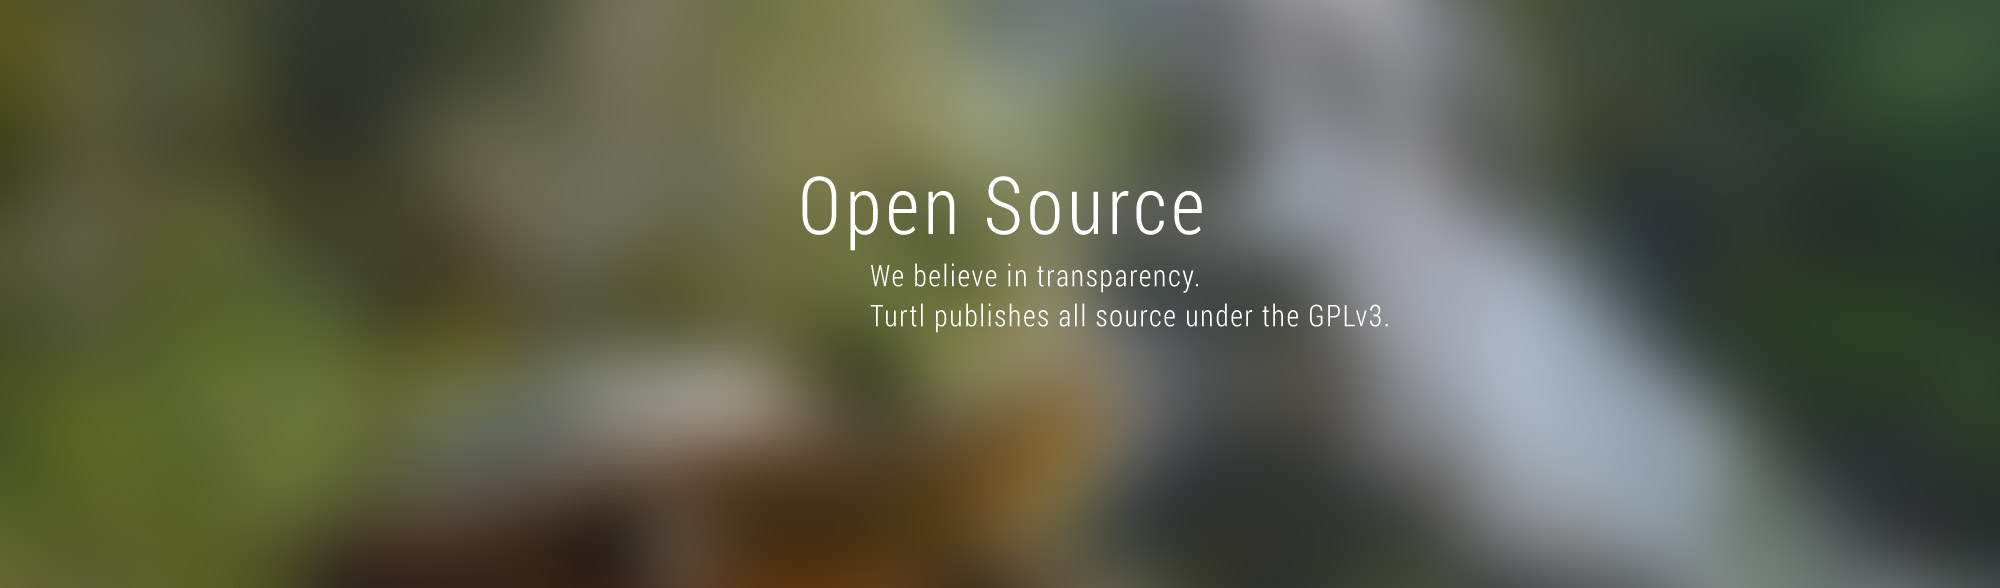
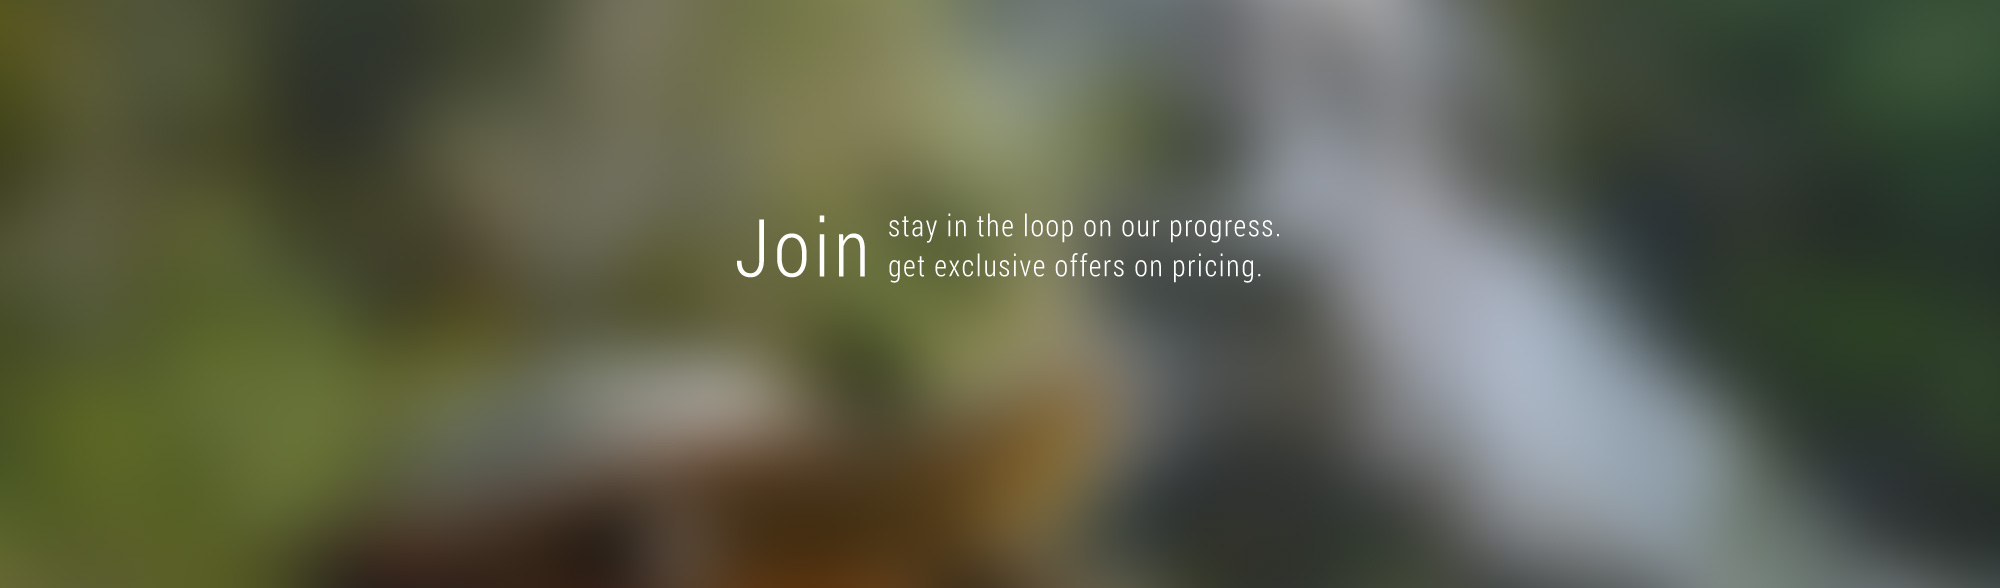
changing open source slide to mailing list slide w/ signup. working well

Changed region(s): [[0.372, 0.3061, 0.651, 0.4898], [0.434, 0.5204, 0.682, 0.551]]

diff --git a/webroot/js/turtl.js b/webroot/js/turtl.js
@@ -71,6 +71,23 @@ var turtl	=	{
 			el_prev: slide_main.getElement('.slide-lol.back'),
 			el_next: slide_main.getElement('.slide-lol.forward')
 		});
+
+		var slide_email_inp	=	$(document.body).getElement('.slideshow li.join input.email');
+		var was_running		=	false;
+		slide_email_inp.addEvent('focus', function() {
+			if(slideshow)
+			{
+				was_running	=	slideshow.state.started;
+				slideshow.stop();
+			}
+		});
+		slide_email_inp.addEvent('blur', function() {
+			if(slideshow && was_running) slideshow.start();
+		});
+		$(document.body).addEvent('click:relay(.slideshow li.slide.join a[href=#join])', function(e) {
+			if(e) e.stop();
+			if(slide_email_inp) slide_email_inp.focus();
+		});
 	},
 
 	setup_modal: function()

diff --git a/webroot/css/site.css b/webroot/css/site.css
@@ -62,6 +62,9 @@ icon {display: inline-block; margin: 0 0 0 0; padding: 0; font-family: Entypo; f
 .slideshow #slide-2 ul.screenshots li.add {background-position: -480px 0;}
 .slideshow #slide-2 ul.screenshots li.kofi {background-position: -480px 0;}
 .slideshow #slide-2 ul.screenshots li.bookmarks {background-position: -720px 0;}
+.slideshow #slide-3 .mailing-list {position: absolute; z-index: 3; bottom: 105px; width: 100%; text-align: center;}
+.slideshow #slide-3 .mailing-list input {padding: 6px 8px;}
+.slideshow #slide-3 .mailing-list .note {font-size: .85em; color: #fff;}
 
 /* --------------------------------------------------------------------------
  * homepage

diff --git a/views/modules/slideshow.md b/views/modules/slideshow.md
@@ -5,11 +5,11 @@ markdown: off
 <div class="slideshow">
     <div class="container">
         <ul>
-            <li style="background-image: url('/images/home/slides/1.jpg');" id="slide-1" class="slide">
+            <li style="background-image: url('/images/home/slides/1.jpg');" id="slide-1" class="slide main">
                 <a href="/download" class="full"></a>
                 <a href="/download" class="button default">Get Started</a>
             </li>
-            <li style="background-image: url('/images/home/slides/2.jpg');" id="slide-2" class="slide">
+            <li style="background-image: url('/images/home/slides/2.jpg');" id="slide-2" class="slide screens">
                 <ul class="screenshots">
                     <li class="playlist">
                         <a rel="modal 800" target="_blank" title="Playlist board" href="/images/home/screens/playlist.jpg"><span>Playlists</span></a>
@@ -25,9 +25,9 @@ markdown: off
                     </li>
                 </ul>
             </li>
-            <li style="background-image: url('/images/home/slides/3.jpg');" id="slide-3" class="slide">
-                <a href="/docs" class="full"></a>
-                <a href="/docs" class="button default">View docs</a>
+            <li style="background-image: url('/images/home/slides/3.jpg');" id="slide-3" class="slide join">
+                <a href="#join" class="full"></a>
+                {{module:mailing}}
             </li>
         </ul>
         <a href="#" class="slide-lol forward">&nbsp;</a>

diff --git a/views/modules/mailing.md b/views/modules/mailing.md
@@ -9,10 +9,10 @@ markdown: off
         <!-- prevents bot signups -->
         <div style="position: absolute; left: -5000px;"><input type="text" name="b_08e2e6f827378ac9d33dc70e8_6ec9573d84" value=""></div>
 
-        <input type="submit" value="Join mailing list">
+        <input type="submit" value="Join the list">
         <br>
         <span class="note">
-            Stay up to date on Turtl news. You can unsubscribe at any time. No spam.
+            Unsubscribe at any time. No spam.
         </span>
     </form>
 </div>
